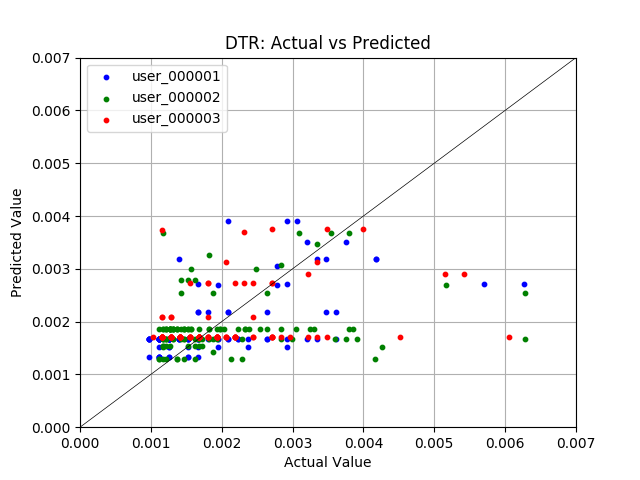
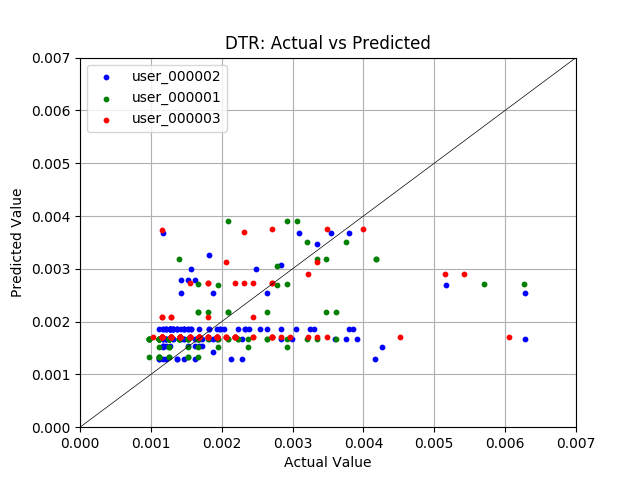
plotting of results is now done using one file: accuracy_scatter.py in 'plot' directory

diff --git a/regressor/plot/accuracy_scatter.py b/regressor/plot/accuracy_scatter.py
@@ -1,16 +1,33 @@
 import matplotlib
 matplotlib.use('Agg')
-import pylab
-import matplotlib.pyplot as plt
+import sys
 import os
 import pandas as pd
 import numpy as np
+import pylab
+import matplotlib.pyplot as plt
+
+def printUsage():
+	print("Usage: python accuracy_scatter.py DTR | Ridge | KNN")
+	
+# Specify the name of the algorithm to produce a plot for
+try:
+	algorithm = sys.argv[1]
+except IndexError as err:
+	printUsage()
+	sys.exit(1)
+	
+if (algorithm not in ["DTR", "Ridge", "KNN"]):
+	printUsage()
+	sys.exit(1)
 
 colors = ['blue','green','red','yellow','orange','purple','pink']
 
 co = 0
 
-files = os.listdir('.')
+files = os.listdir(algorithm)
+files = [algorithm + '/' + file for file in files]
+print(files)
 files.sort(key=lambda x: os.path.getmtime(x))
 
 fig, ax = plt.subplots()
@@ -21,18 +38,18 @@ y = [0,0.007]
 ax.set_xlim(x[0],x[1])
 ax.set_ylim(y[0],y[1])
 ax.plot(x,y,color='black',linewidth=0.5)
-plt.title("DTR: Actual vs Predicted")
+plt.title(algorithm+": Actual vs Predicted")
 plt.xlabel("Actual Value")
 plt.ylabel("Predicted Value")
 
 for filename in files:
 	if '.tsv' in filename:
 		df = pd.read_csv(filename,sep='\t',header=0,usecols=["Actual","Predicted"])
-		user = filename[:11]
+		user = filename.split('/')[1][:11]
 		df = df.rename(columns={ 'Predicted' : user })
 		print(df.columns)
 		ax.scatter(df["Actual"],df[user],color=colors[co],s=10)
 		co=co+1
 
 ax.legend(loc="upper left")
-pylab.savefig('accuracy.png')
+pylab.savefig(algorithm+'/accuracy.png')
